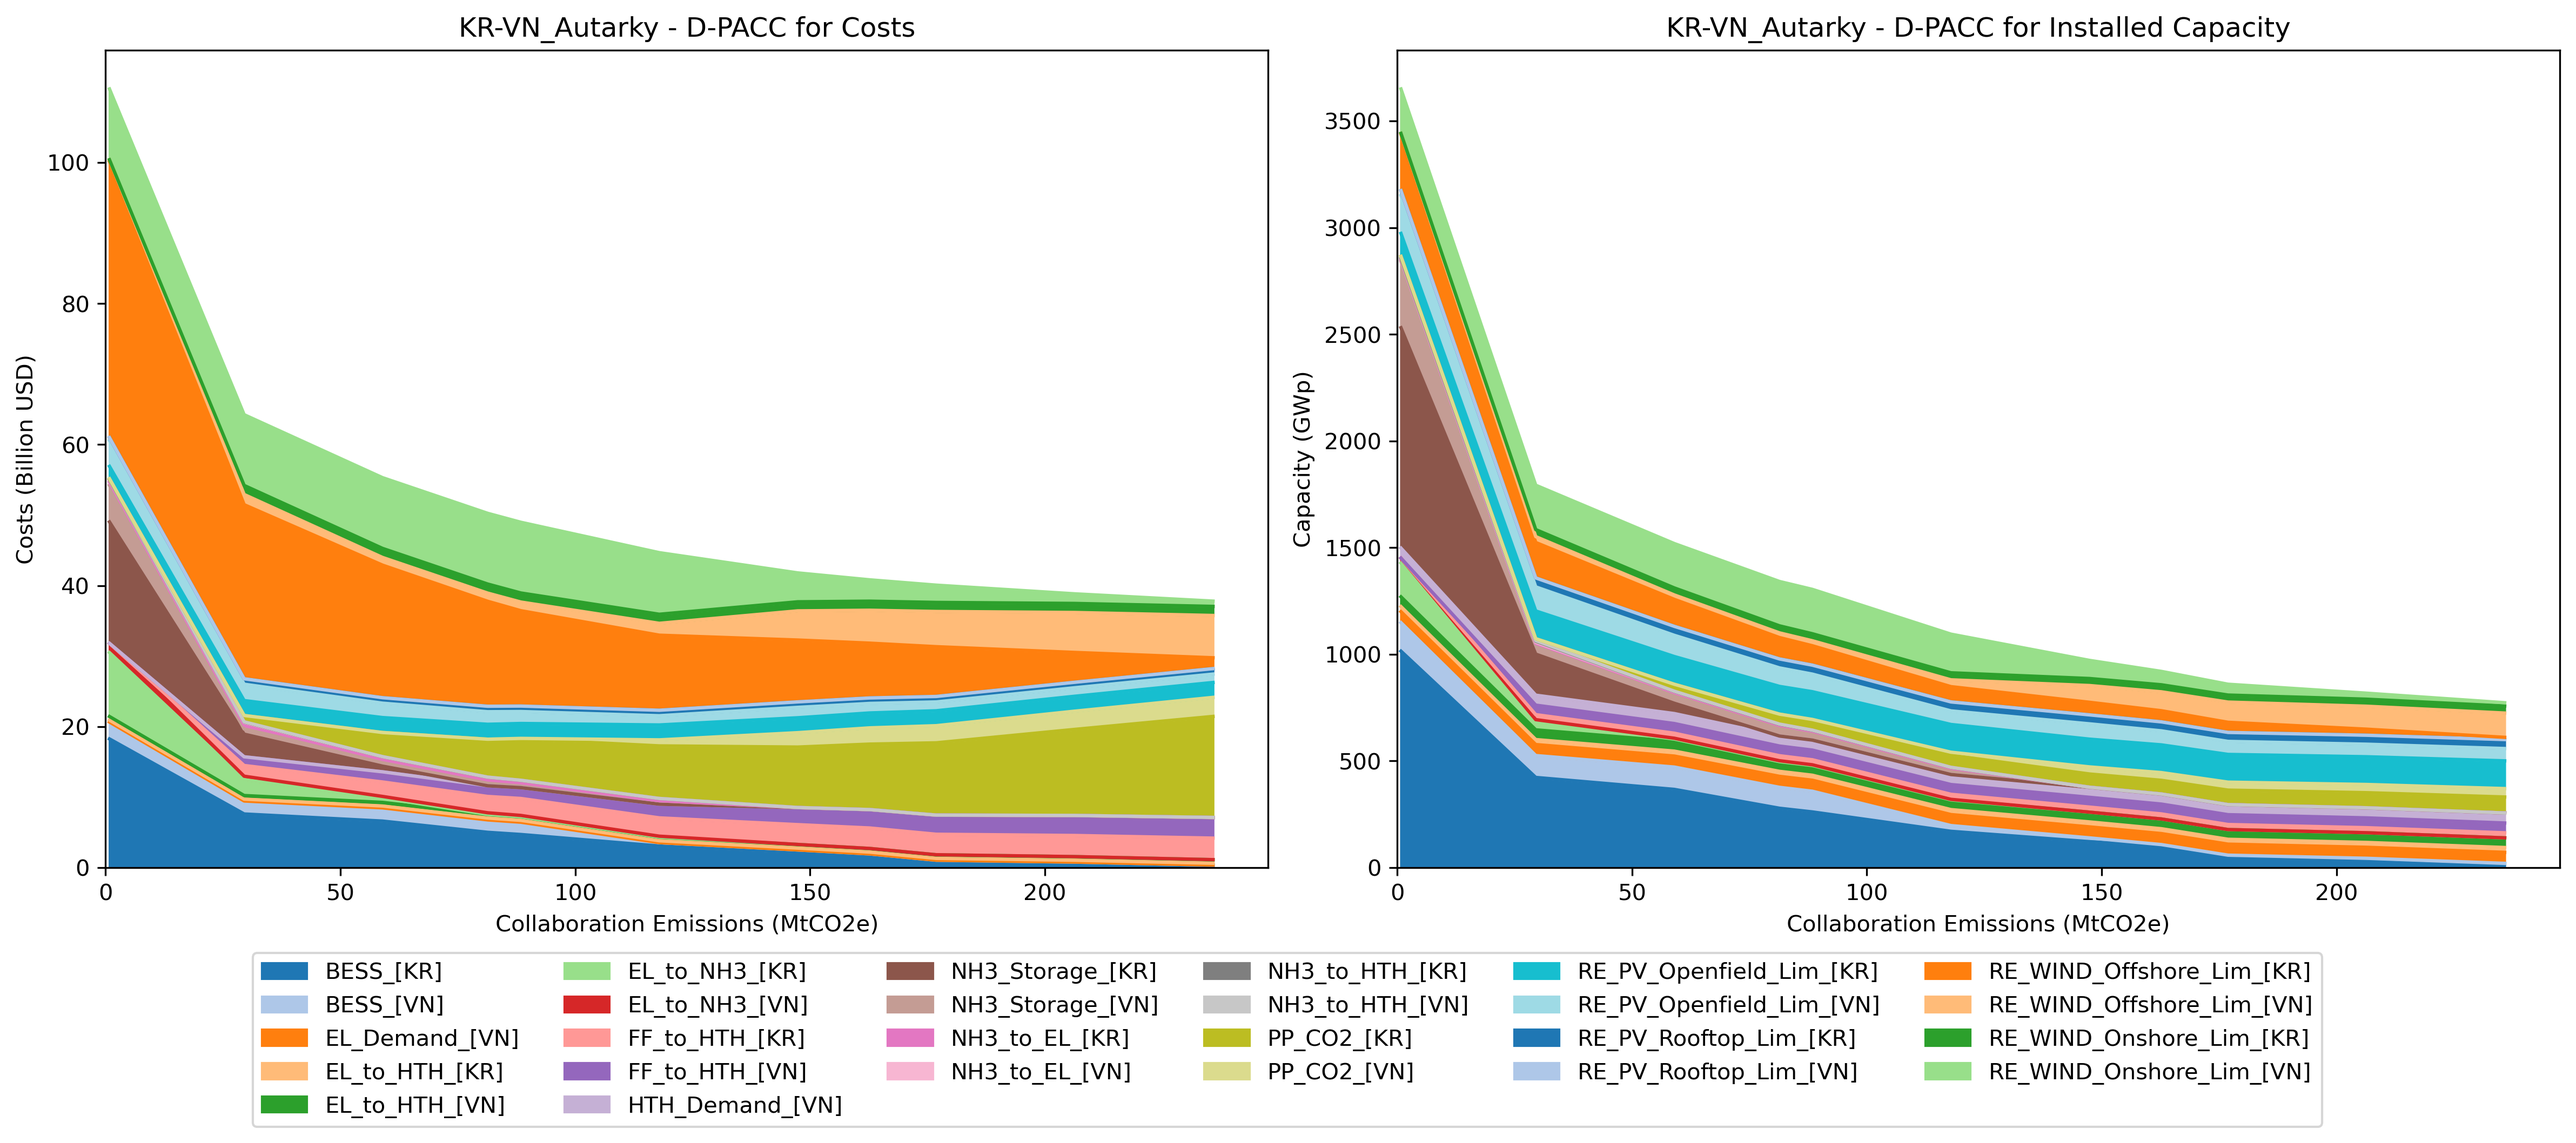
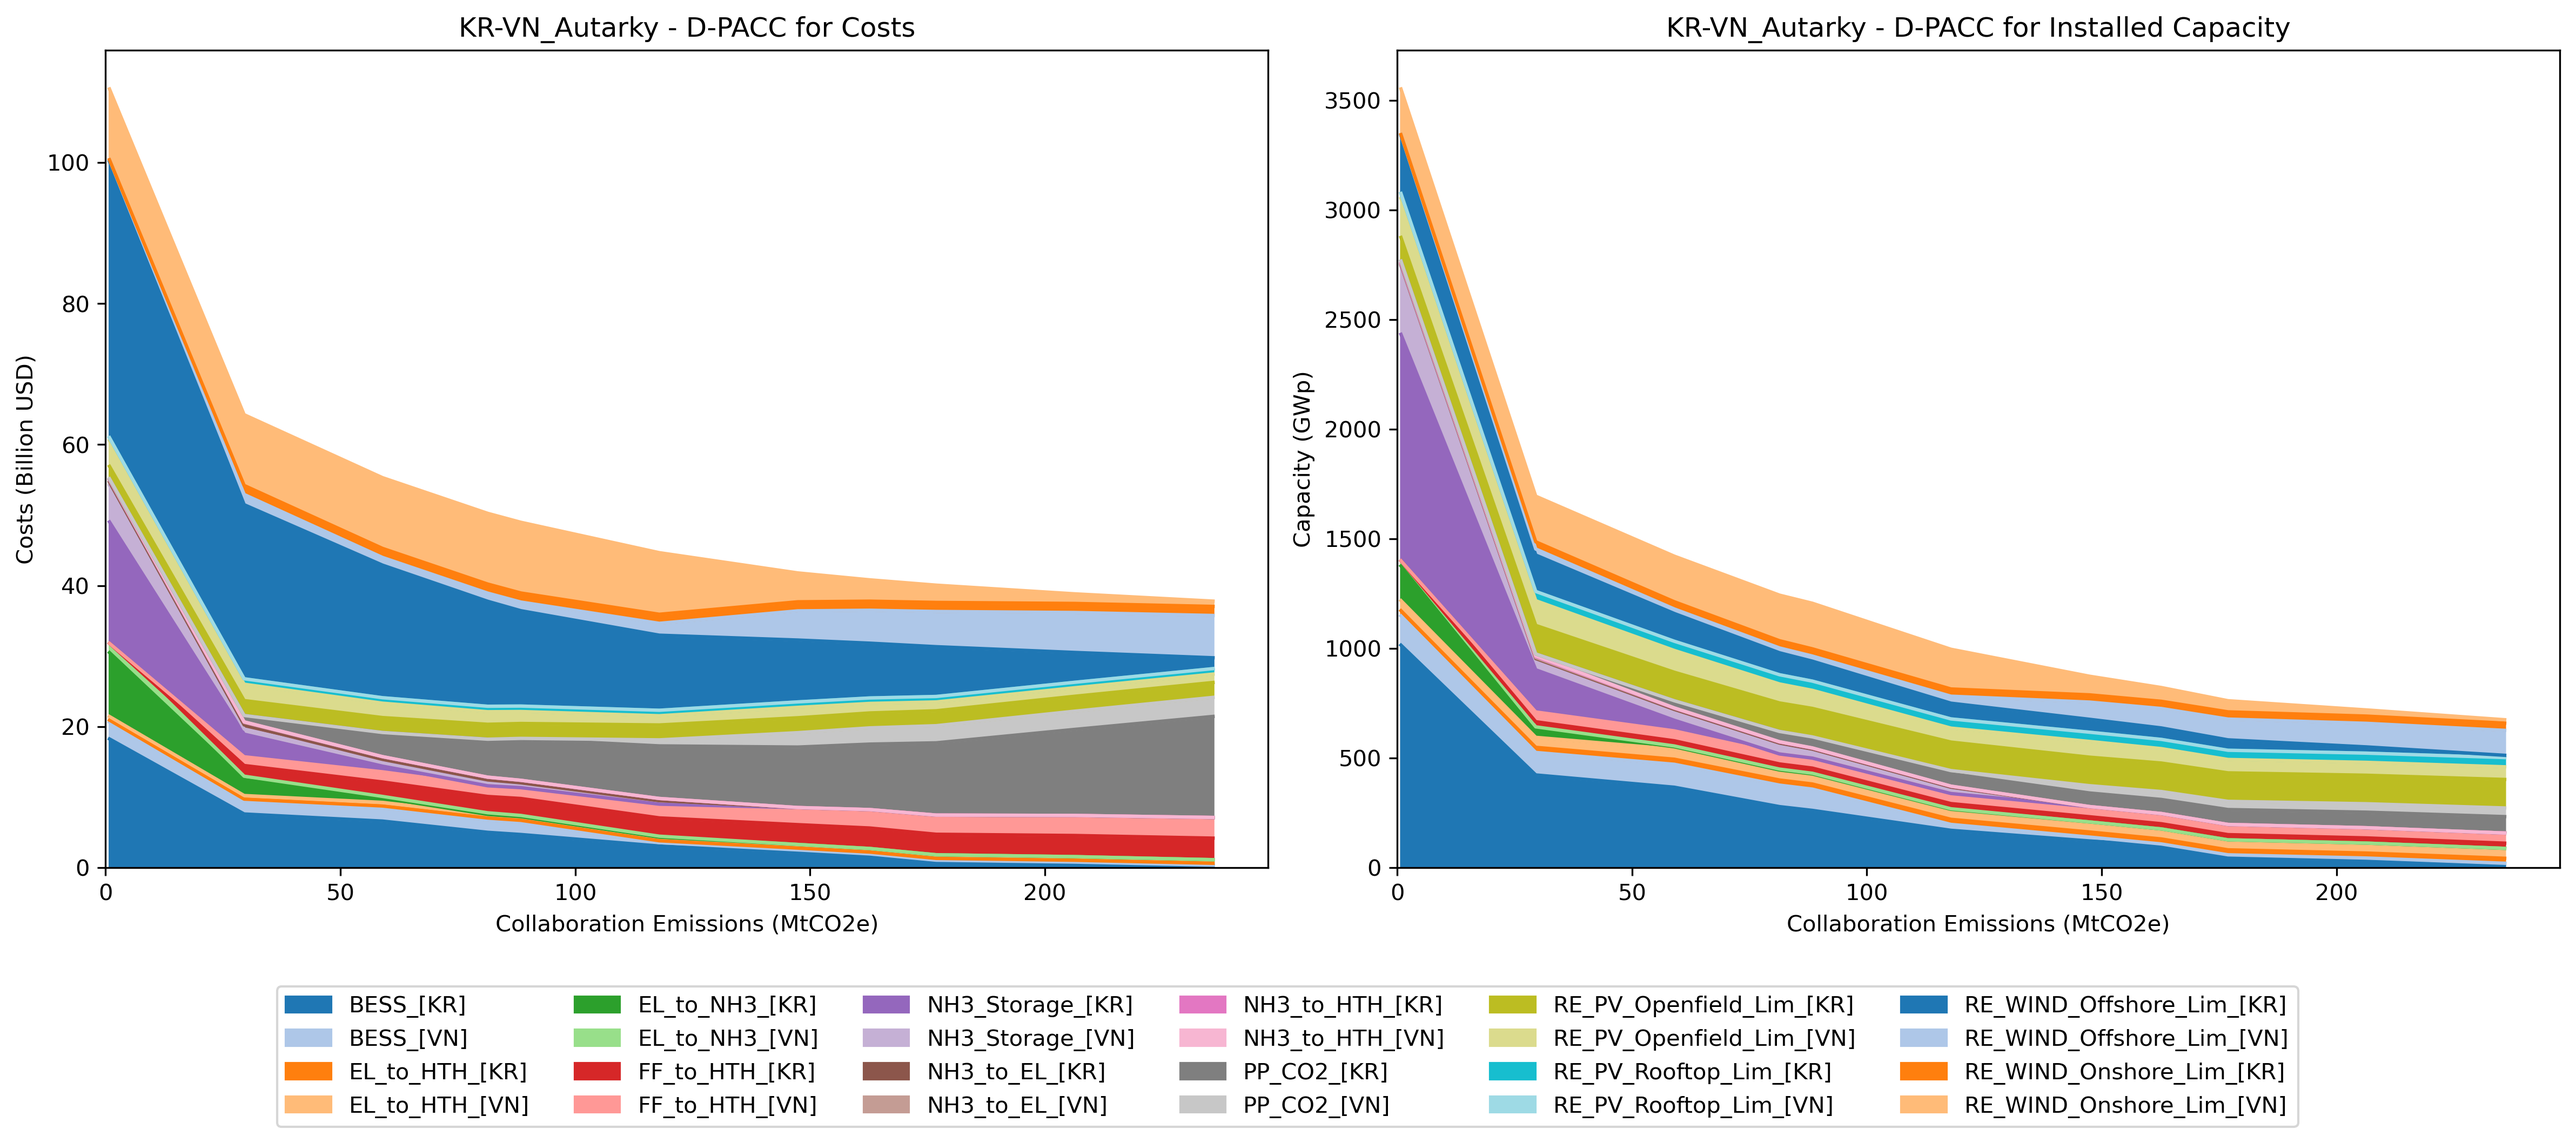
Added KR collab countries into d-pacc plotting functions to remove Demands. Re-created plot for KR-VN_Aut

Changed region(s): [[0.0312, 0.0935, 0.4688, 0.7794], [0.5, 0.0935, 1.0, 0.7482], [0.0938, 0.8418, 0.9062, 0.9976]]

diff --git a/GMPA_plot_mitigation_curve.py b/GMPA_plot_mitigation_curve.py
@@ -229,10 +229,10 @@ def dpacc_subplots(total_data_filename, capacities_data_filename, plot_filename,
 
 #%%
 ###### Autarky Case Studies #########
-case_study_name = "Autarky_KR"
+# case_study_name = "Autarky_KR"
 
 ###### Two Country Case Studies #########
-# case_study_name = "KE-NG_Autarky"
+case_study_name = "KR-VN_Autarky"
 # case_study_name = "KE-NG_Collab"
 
 ###### Three Country Case Studies #########
@@ -259,7 +259,7 @@ cost_plot_filename = os.path.join(case_study_folder, "mitigation_curve.png")
 mitigation_curve(total_data_filename,
                   cost_plot_filename,
                   case_study_name,
-                  countries=["KE", "NG", "CO", "PE", "KR"])
+                  countries=["KE", "NG", "CO", "PE", "KR", "VN", "LA", "TH", "PH", "ID", "MY"])
 
 # Plot subplots for costs and capacity installed
 subplotsplot_filename = os.path.join(case_study_folder, "d-pacc_subplots.png")
@@ -268,5 +268,5 @@ dpacc_subplots(total_data_filename,
             capacities_data_filename,
             subplotsplot_filename,
             case_study_name,
-            countries=["KE", "NG", "CO", "PE", "KR"])
+            countries=["KE", "NG", "CO", "PE", "KR", "VN", "LA", "TH", "PH", "ID", "MY"])
 
